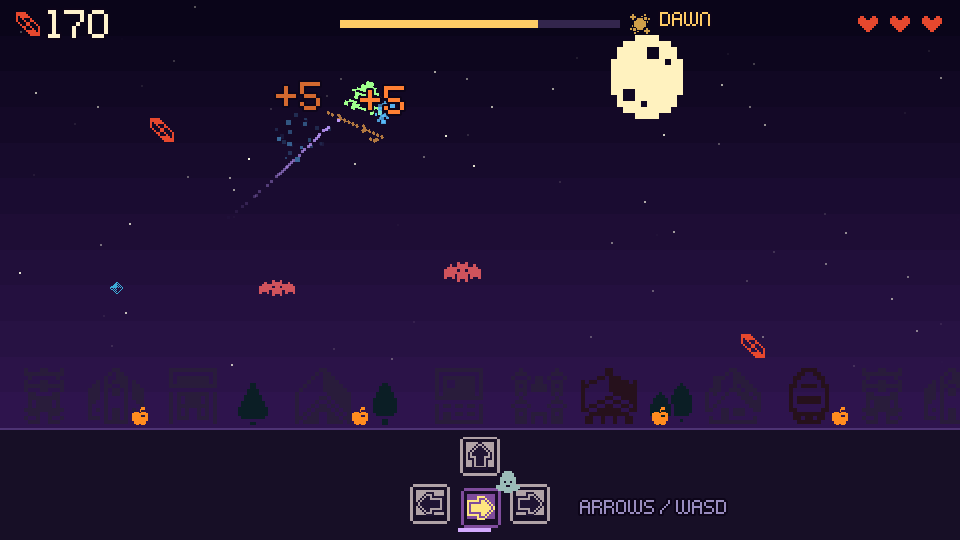
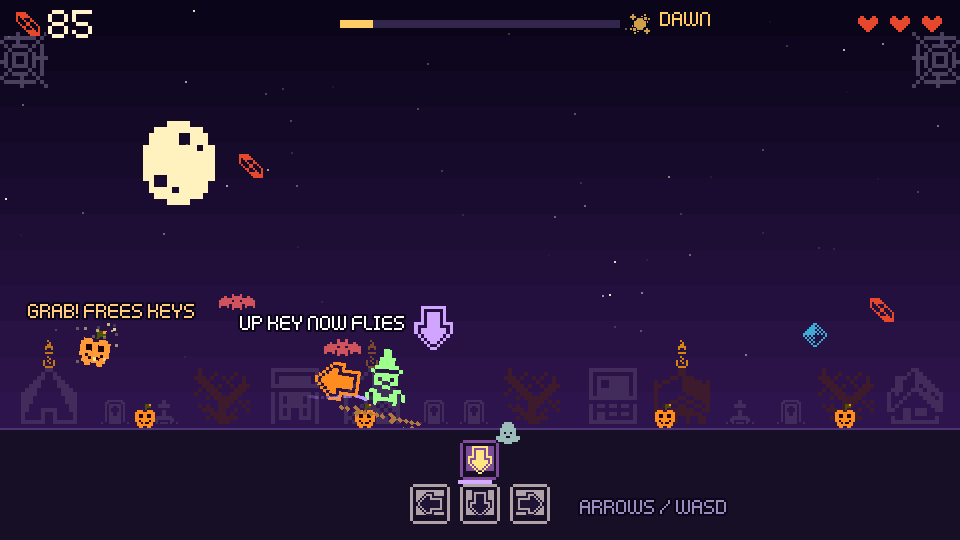
Round 2 media and docs: new screenshots, carved pumpkins on cover, updated rules and credits

diff --git a/tools/make_cover.py b/tools/make_cover.py
@@ -41,8 +41,14 @@ for c, r in [(2,19),(3,20),(4,21),(0,1),(6,20),(2,1),(7,21),(5,19),(8,20),(3,1)]
     x += 16*s + 6
 d.rectangle([0, 375, W, H], fill=(23, 15, 38, 255))
 d.rectangle([0, 375, W, 376], fill=(76, 52, 115, 255))
+def jack(cx, cy, sc):
+    put(img, tile(33, 18, sc, (255, 140, 30), mono), cx, cy)
+    k = (40, 10, 30, 255)  # carved face, matching the in-game jack-o'-lanterns
+    for ex in (-3, 2):
+        d.rectangle([cx + ex*sc, cy - 1*sc, cx + (ex+1)*sc - 1, cy - 1], fill=k)
+    d.rectangle([cx - 3*sc, cy + 2*sc, cx + 3*sc - 1, cy + 3*sc - 1], fill=k)
 for px_ in [60, 250, 470]:
-    put(img, tile(33, 18, 3, (255, 140, 30), mono), px_, 360)
+    jack(px_, 360, 3)
 # actors
 put(img, tile(34, 3, 9, (217, 153, 90), mono, rot=-45), 292, 268)
 put(img, tile(26, 9, 8, (158, 255, 140), mono), 300, 222)

diff --git a/README.md b/README.md
@@ -4,7 +4,7 @@ A tiny Halloween arcade game made for **Micro Jam 069** (theme: *Halloween*, pre
 
 ![Night Broom cover](media/cover.png)
 
-You fly a witch over a sleeping village and grab candy until dawn. Ghosts keep diving into the keyboard at the bottom of the screen and possessing keys. A possessed key turns purple and its arrow flips to a new direction, so Up might now fly you down. The on-screen keycaps always show what each key does right now. Grab a jack-o'-lantern to chase every ghost out at once.
+You fly a witch over a sleeping village and grab candy until dawn. Ghosts keep diving into the keyboard at the bottom of the screen and possessing keys. A possessed key turns purple and its arrow flips to a new direction, so Up might now fly you down. The on-screen keycaps always show what each key does right now. Once the haunting gets serious, a jack-o'-lantern appears: grab it to chase every ghost out at once.
 
 **Play it in the browser:** ITCH_URL
 
@@ -21,16 +21,16 @@ Grab candy in quick runs for a combo (up to +5 each). Bats cost a life; three hi
 
 | | |
 | --- | --- |
-| ![A ghost haunts a key](media/screenshot-1.png) | ![Candy combo](media/screenshot-2.png) |
-| ![Dawn](media/screenshot-3.png) | ![Title](media/title.png) |
+| ![The first ghost lands on a key](media/screenshot-1.png) | ![A jack-o'-lantern frees the keys](media/screenshot-2.png) |
+| ![Two keys haunted late in the night](media/screenshot-3.png) | ![Dawn](media/dawn.png) |
 
 ## How the haunting works
 
-Each key holds a direction. When a ghost lands on a key, that key's direction changes (the first time it's always a full reverse, later it's random). The haunt lasts 9 to 13 seconds, and a small bar under the key drains to show how long is left. More keys can be haunted at once as the night goes on, up to all four. A jack-o'-lantern appears while any key is haunted; grabbing it frees every key and gives back a life.
+Each key holds a direction. When a ghost lands on a key, that key's direction changes (the first time it's always a full reverse, later it's random). The haunt lasts 9 to 13 seconds, and a small bar under the key drains to show how long is left. More keys can be haunted at once as the night goes on, up to all four. A jack-o'-lantern appears once two keys are haunted or one haunt has lasted 5 seconds; grabbing it frees every key and gives back a life. The first haunt always happens in a calm moment, slows time, and shows a short tip by the witch.
 
 ## Playtesting
 
-The web build publishes its state to the page when opened with `?bot=1`, and `tools/bot.js` (Playwright) plays full nights against it with two policies: one that reads the key mapping the keycaps show, and one that assumes normal arrows. Over the tuning runs the mapping-aware bot collected about twice as much candy and was the only one to reach dawn, which is the check that the keycaps carry everything a player needs. A separate first-look test (an AI agent shown three screenshots and nothing else) led to the drain bars, the "FREES KEYS" tag on the pumpkin and the dawn label.
+The web build publishes its state to the page when opened with `?bot=1`, and `tools/bot.js` (Playwright) plays full nights against it with three policies: `aware` reads the key mapping the keycaps show, `naive` assumes normal arrows, and `human` models a first-timer (reaction lag, notices a remapped key 1-1.5 s late, steering noise). Difficulty was tuned so the first-timer bot reaches dawn about half the time (5 of 9 nights) while the aware bot always does, and a bot that ignores the keycaps collects about two thirds of the aware bot's candy. Sound levels were set from ffmpeg loudness measurements rather than by ear. A separate first-look test (an AI agent shown three screenshots and nothing else) led to the drain bars, the "FREES KEYS" tag on the pumpkin and the dawn label.
 
 ## Build
 
@@ -44,11 +44,11 @@ The web export uses the no-threads template, so it runs on itch.io without speci
 
 ## Credits
 
-All art and sound effects are by Kenney (CC0). Music is "Danse Macabre" by Kevin MacLeod (CC BY 4.0). Full list in [CREDITS.md](CREDITS.md).
+All art is by Kenney (CC0); sound effects are CC0 recordings by Kenney, qubodup, jaggedstone and Jordan Irwin. Music is "Danse Macabre" by Kevin MacLeod (CC BY 4.0). Full list in [CREDITS.md](CREDITS.md).
 
 ## AI disclosure
 
-No AI-generated art, sound or music is used. Every sprite and sound is a human-made Kenney asset and the music is Kevin MacLeod's. The code was written with help from an AI coding assistant (Claude), which the Micro Jam 069 rules allow ("using AI for coding or debugging").
+No AI-generated art, sound or music is used. Every sprite is from Kenney's 1-Bit Pack, every sound effect is a human-made CC0 recording (see CREDITS.md), and the music is Kevin MacLeod's. The code was written with help from an AI coding assistant (Claude), which the Micro Jam 069 rules allow ("using AI for coding or debugging").
 
 ## License
 
